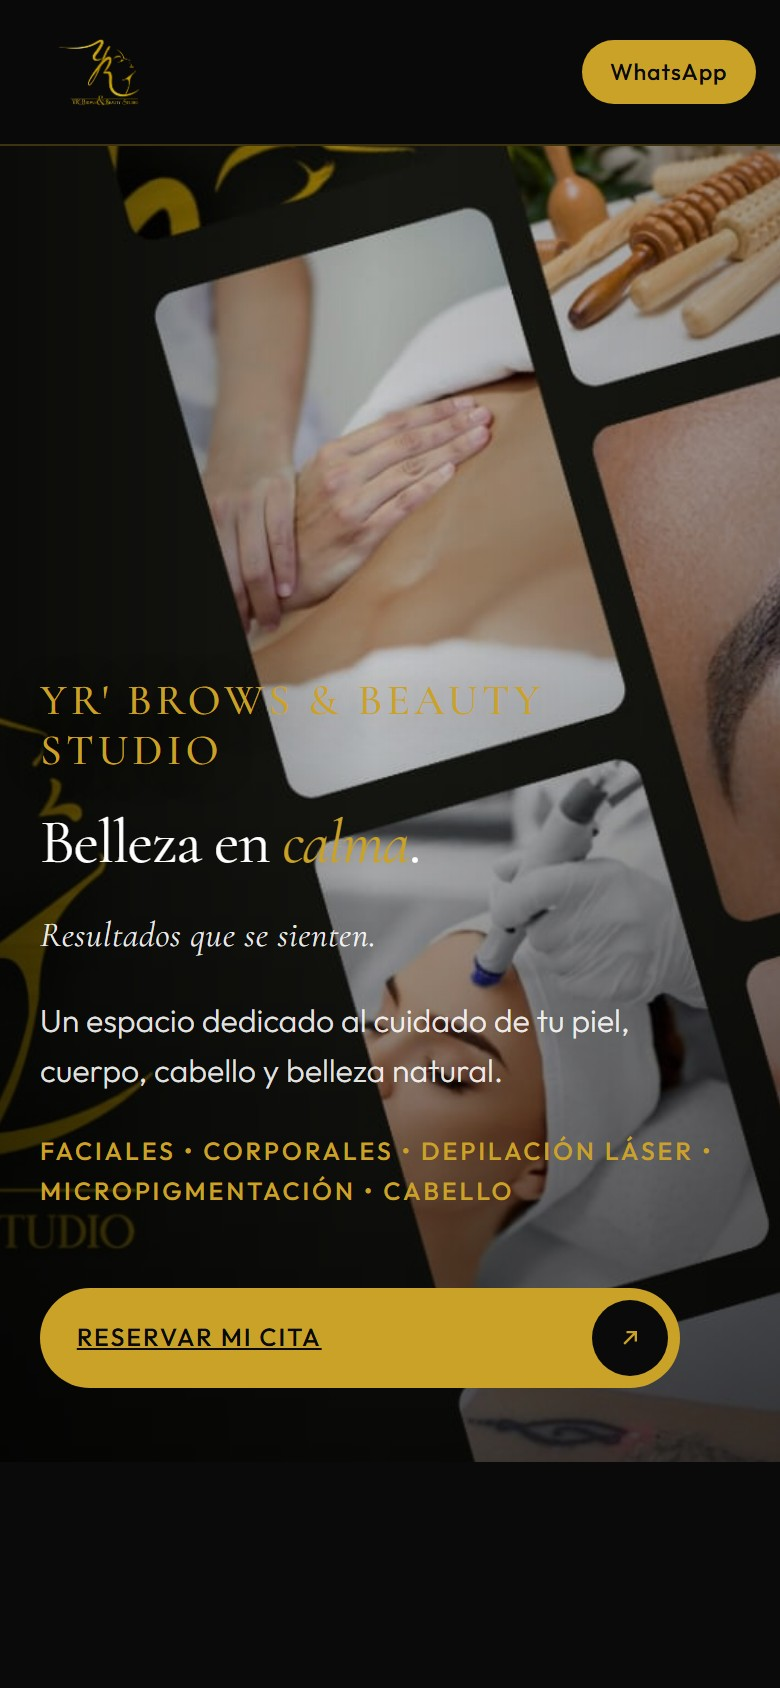
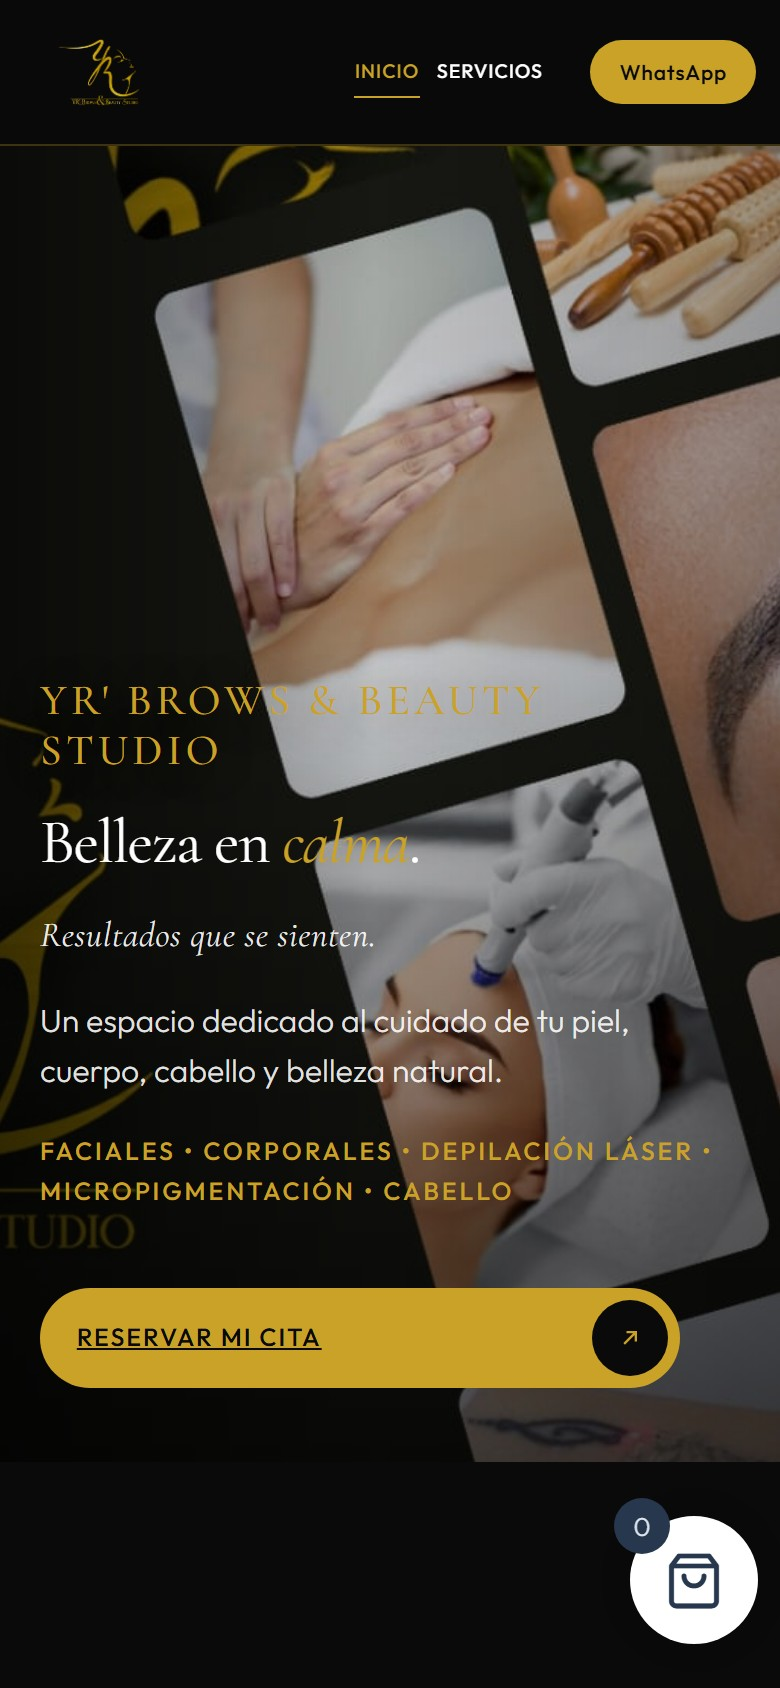
act v1.8

diff --git a/src/data/projects.js b/src/data/projects.js
@@ -191,34 +191,38 @@ export const projects = [
   {
     id: 13,
     title: "YR' Brows & Beauty Studio",
-    category: "Sitio institucional",
+    category: "Sitio institucional + WooCommerce",
     year: "2026",
     role: "Diseño y desarrollo",
     location: "Vega Baja, Puerto Rico",
     featured: true,
     shortDescription:
-      "Sitio de belleza y bienestar para facial, corporal, láser, micropigmentación y cabello — con reserva clara.",
+      "Sitio de belleza y bienestar con WooCommerce para servicios: facial, corporal, láser, micropigmentación y cabello.",
     longDescription: [
       "Proyecto desarrollado para ",
       JRA,
       ". ",
-      { href: "https://yrbrows.jrawebdesignllc.com/", label: "YR' Brows & Beauty Studio" },
-      " es el espacio de Yaileen Ríos en Vega Baja: estética facial y corporal, depilación láser, micropigmentación y servicios de cabello. Diseñé y desarrollé una web cálida y ordenada — hero, propósito, servicios y contacto/WhatsApp — para que una clienta entienda la oferta y reserve sin fricción, con tipografía expresiva y foco en la experiencia mobile.",
+      { href: "https://yrbrowsbeauty.com/", label: "YR' Brows & Beauty Studio" },
+      " es el espacio de Yaileen Ríos en Vega Baja: estética facial y corporal, depilación láser, micropigmentación y servicios de cabello. Diseñé y desarrollé una web cálida y ordenada — hero, propósito, servicios y contacto/WhatsApp — con ",
+      "WooCommerce integrado para catalogar y gestionar los servicios",
+      ", tipografía expresiva y foco en la experiencia mobile, para que una clienta entienda la oferta y reserve sin fricción.",
     ],
-    technologies: ["WordPress", "HTML + CSS", "JavaScript", "UX/UI"],
+    technologies: ["WordPress", "WooCommerce", "HTML + CSS", "JavaScript", "UX/UI"],
     ...deviceSet("yr-brows"),
-    link: "https://yrbrows.jrawebdesignllc.com/",
+    link: "https://yrbrowsbeauty.com/",
     en: {
-      category: "Institutional site",
+      category: "Institutional site + WooCommerce",
       role: "Design & development",
       shortDescription:
-        "Beauty and wellness site for facial, body, laser, micropigmentation and hair — with a clear booking path.",
+        "Beauty and wellness site with WooCommerce for services: facial, body, laser, micropigmentation and hair.",
       longDescription: [
         "Project built for ",
         JRA,
         ". ",
-        { href: "https://yrbrows.jrawebdesignllc.com/", label: "YR' Brows & Beauty Studio" },
-        " is Yaileen Ríos’s studio in Vega Baja: facial and body aesthetics, laser hair removal, micropigmentation and hair services. I designed and built a warm, ordered site — hero, purpose, services and WhatsApp/contact — so clients grasp the offer and book without friction, with expressive type and a mobile-first experience.",
+        { href: "https://yrbrowsbeauty.com/", label: "YR' Brows & Beauty Studio" },
+        " is Yaileen Ríos’s studio in Vega Baja: facial and body aesthetics, laser hair removal, micropigmentation and hair services. I designed and built a warm, ordered site — hero, purpose, services and WhatsApp/contact — with ",
+        "WooCommerce integrated to catalog and manage services",
+        ", expressive type and a mobile-first experience so clients grasp the offer and book without friction.",
       ],
     },
   },
